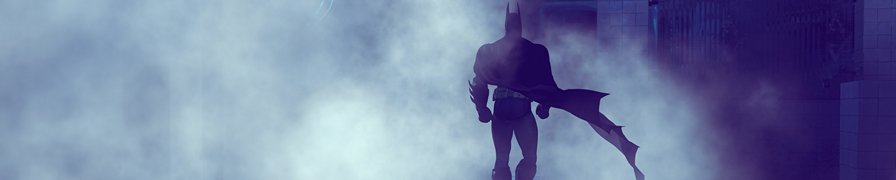
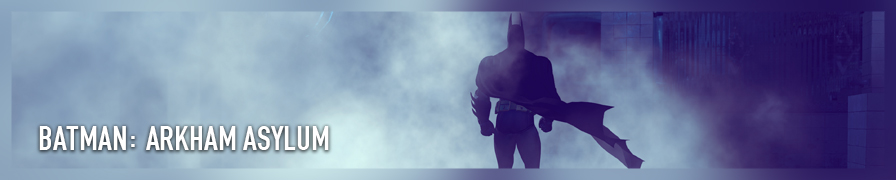
updated Batman AA guide
1. added border to header image (thanks langgi!)
2. changed formatting of text blocks in guide so they weren't being formatted as code.

diff --git a/site/GameGuides/batman_arkham_asylum.htm b/site/GameGuides/batman_arkham_asylum.htm
@@ -160,12 +160,10 @@
 <ul>
 <li>
 <p>To use DSR resolutions you will need to set this in the ..\Users\USERNAME\Documents\Square Enix\Batman Arkham Asylum GOTY\BmGame\Config\BmEngine.ini file. Under the [SystemSettings] section change the resolution values to your desired DSR resolution such as:</p>
-<pre><code>ResX=5120
+<pre class="nocode">ResX=5120
 ResY=2880
-</code></pre>
-
-<p>While there you can modifying the following settings (pulled from the Tweak Guide) to improve the graphics further.</p>
-<pre><code>DepthOfField=False  
+</pre><p>While there you can modifying the following settings (pulled from the Tweak Guide) to improve the graphics further.</p>
+<pre class="nocode">DepthOfField=False  
 MaxAnisotropy=16
 ShadowFilterQualityBias=0
 MinShadowResolution=32
@@ -183,21 +181,17 @@ Under [MemoryPools] make the following changes:
 FLightPrimitiveInteractionInitialBlockSize=1024
 FModShadowPrimitiveInteractionInitialBlockSize=1024
 // you can use higher values than that but it will makes the loading screens longer, but will reduce textures and static shadow popping.
-</code></pre>
-
-<p>Remember to save the changes and set the file to read only so it doesn't get overridden. </p>
+</pre><p>Remember to save the changes and set the file to read only so it doesn't get overridden. </p>
 </li>
 <li>
 <p>For depth buffer access in Reshade you will need to use thalixte's dll. See <a href="https://reshade.me/forum/general-discussion/4083-depth-buffer-detection-modification?start=700#32499" target="_blank">post #703 on Reshade.me</a> for details but you will need to install Reshade as normal and replace the .DLL with this new one. Make sure to set RESHADE_DEPTH_INPUT_IS_REVERSED=0 and tick the following settings under the DX9 menu.</p>
-<pre><code>Preserve depth buffer from being cleared
+<pre class="nocode">Preserve depth buffer from being cleared
 Auto preserve
 find best depthstencil based on vertices
-</code></pre>
-
-</li>
+</pre></li>
 <li>
-<p>Useful keybinds can be added to ..\Users\USERNAME\Documents\Square Enix\Batman Arkham Asylum GOTY\BmGame\Config\BmInput.ini file at the end of the [Engine.PlayerInput] section. Set the file to read only.</p>
-<pre><code>Bindings=(Name=&quot;F1&quot;,Command=&quot;God&quot;)
+Useful keybinds can be added to ..\Users\USERNAME\Documents\Square Enix\Batman Arkham Asylum GOTY\BmGame\Config\BmInput.ini file at the end of the [Engine.PlayerInput] section. Set the file to read only.
+<pre class="nocode">Bindings=(Name=&quot;F1&quot;,Command=&quot;God&quot;)
 Bindings=(Name=&quot;F1&quot;,Command=&quot;ToggleEnemiesCanAttack&quot;,Alt=True)
 Bindings=(Name=&quot;F2&quot;,Command=&quot;Fly&quot;)
 Bindings=(Name=&quot;F2&quot;,Command=&quot;Walk&quot;,Alt=True)
@@ -206,9 +200,7 @@ Bindings=(Name=&quot;F3&quot;,Command=&quot;Ghost&quot;,Alt=True)
 Bindings=(Name=&quot;F4&quot;,Command=&quot;ToggleDebugCamera&quot;)
 Bindings=(Name=&quot;F5&quot;,Command=&quot;Slomo 0.3&quot;)
 Bindings=(Name=&quot;F5&quot;,Command=&quot;Slomo 1&quot;,Alt=True)
-</code></pre>
-
-</li>
+</pre></li>
 <li>
 <p>Cheat Table Notes</p>
 <ol>

diff --git a/markdown/GameGuides/batman_arkham_asylum.md b/markdown/GameGuides/batman_arkham_asylum.md
@@ -24,50 +24,51 @@ DirectX versions | DirectX 9
 
 ##Additional Notes
 * To use DSR resolutions you will need to set this in the ..\Users\USERNAME\Documents\Square Enix\Batman Arkham Asylum GOTY\BmGame\Config\BmEngine.ini file. Under the [SystemSettings] section change the resolution values to your desired DSR resolution such as:
-
-        ResX=5120
-        ResY=2880
-
+    ```
+    ResX=5120
+    ResY=2880
+    ```
     While there you can modifying the following settings (pulled from the Tweak Guide) to improve the graphics further.
+    ```
+    DepthOfField=False  
+    MaxAnisotropy=16
+    ShadowFilterQualityBias=0
+    MinShadowResolution=32
+    MaxShadowResolution=2048 
+    // change to '1024' for faster performance, '3072' or above for better quality
+    ShadowFadeResolution=5
+    ShadowFilterRadius=5.000000
+    SkeletalMeshLODBias=-1
+    ParticleLODBias=-1
+    // these last two settings affects LoD (Level of Details) which reduces quality of meshes and particles the further the camera is from them. Something far away doesn't need to be as detailed as something which is right in front of the camera. This is made to improve performance, but can introduce some popping. The -1 settings disable LoD altogether, which is very performance hungry!
 
-        DepthOfField=False  
-        MaxAnisotropy=16
-        ShadowFilterQualityBias=0
-        MinShadowResolution=32
-        MaxShadowResolution=2048 
-        // change to '1024' for faster performance, '3072' or above for better quality
-        ShadowFadeResolution=5
-        ShadowFilterRadius=5.000000
-        SkeletalMeshLODBias=-1
-        ParticleLODBias=-1
-        // these last two settings affects LoD (Level of Details) which reduces quality of meshes and particles the further the camera is from them. Something far away doesn't need to be as detailed as something which is right in front of the camera. This is made to improve performance, but can introduce some popping. The -1 settings disable LoD altogether, which is very performance hungry!
+    Press Ctrl+F and search for MemoryPools.
+    Under [MemoryPools] make the following changes:
 
-        Press Ctrl+F and search for MemoryPools.
-        Under [MemoryPools] make the following changes:
-
-        FLightPrimitiveInteractionInitialBlockSize=1024
-        FModShadowPrimitiveInteractionInitialBlockSize=1024
-        // you can use higher values than that but it will makes the loading screens longer, but will reduce textures and static shadow popping.
+    FLightPrimitiveInteractionInitialBlockSize=1024
+    FModShadowPrimitiveInteractionInitialBlockSize=1024
+    // you can use higher values than that but it will makes the loading screens longer, but will reduce textures and static shadow popping.
+    ```
     Remember to save the changes and set the file to read only so it doesn't get overridden. 
 
 * For depth buffer access in Reshade you will need to use thalixte's dll. See [post #703 on Reshade.me](https://reshade.me/forum/general-discussion/4083-depth-buffer-detection-modification?start=700#32499) for details but you will need to install Reshade as normal and replace the .DLL with this new one. Make sure to set RESHADE_DEPTH_INPUT_IS_REVERSED=0 and tick the following settings under the DX9 menu.
-
-        Preserve depth buffer from being cleared
-        Auto preserve
-        find best depthstencil based on vertices
-
+    ```
+    Preserve depth buffer from being cleared
+    Auto preserve
+    find best depthstencil based on vertices
+    ```
 * Useful keybinds can be added to ..\Users\USERNAME\Documents\Square Enix\Batman Arkham Asylum GOTY\BmGame\Config\BmInput.ini file at the end of the [Engine.PlayerInput] section. Set the file to read only.
-
-        Bindings=(Name="F1",Command="God")
-        Bindings=(Name="F1",Command="ToggleEnemiesCanAttack",Alt=True)
-        Bindings=(Name="F2",Command="Fly")
-        Bindings=(Name="F2",Command="Walk",Alt=True)
-        Bindings=(Name="F3",Command="PlayersOnly")
-        Bindings=(Name="F3",Command="Ghost",Alt=True)
-        Bindings=(Name="F4",Command="ToggleDebugCamera")
-        Bindings=(Name="F5",Command="Slomo 0.3")
-        Bindings=(Name="F5",Command="Slomo 1",Alt=True)
-
+    ```
+    Bindings=(Name="F1",Command="God")
+    Bindings=(Name="F1",Command="ToggleEnemiesCanAttack",Alt=True)
+    Bindings=(Name="F2",Command="Fly")
+    Bindings=(Name="F2",Command="Walk",Alt=True)
+    Bindings=(Name="F3",Command="PlayersOnly")
+    Bindings=(Name="F3",Command="Ghost",Alt=True)
+    Bindings=(Name="F4",Command="ToggleDebugCamera")
+    Bindings=(Name="F5",Command="Slomo 0.3")
+    Bindings=(Name="F5",Command="Slomo 1",Alt=True)
+    ```
 * Cheat Table Notes
     1. Run the game till main menu, open up Cheat Engine, target ShippingPC-BmGame.exe game process.
     2. Activate [Console] item and the sub-section expands. Activate Fetch UE3 Pointers/Addresses script to fetch the required GNames and GObjects pointers. 
